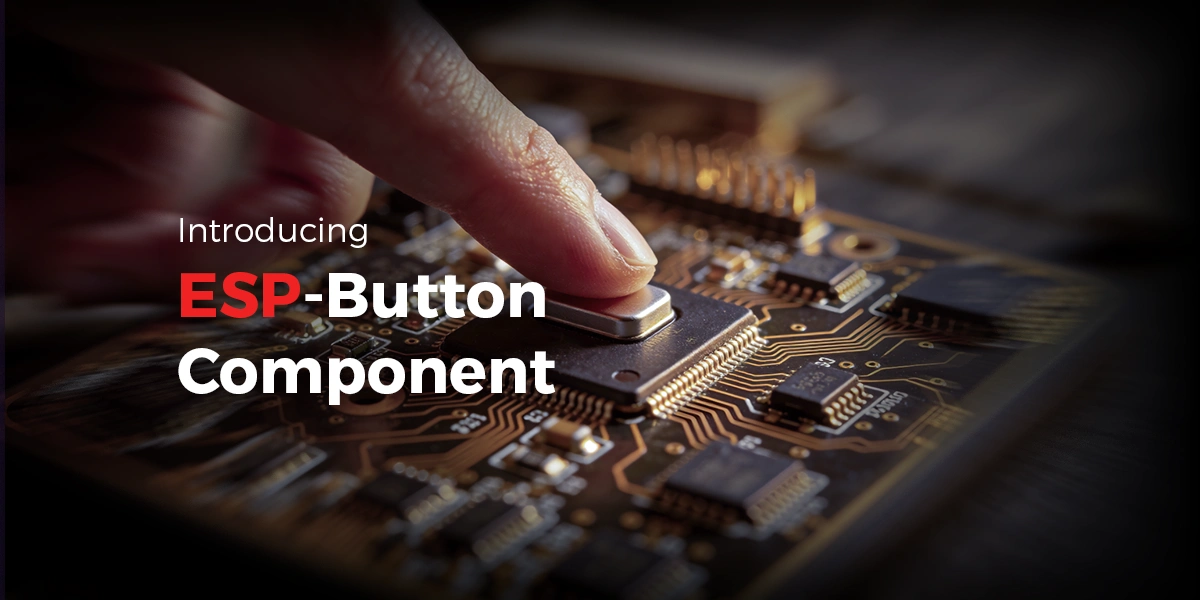
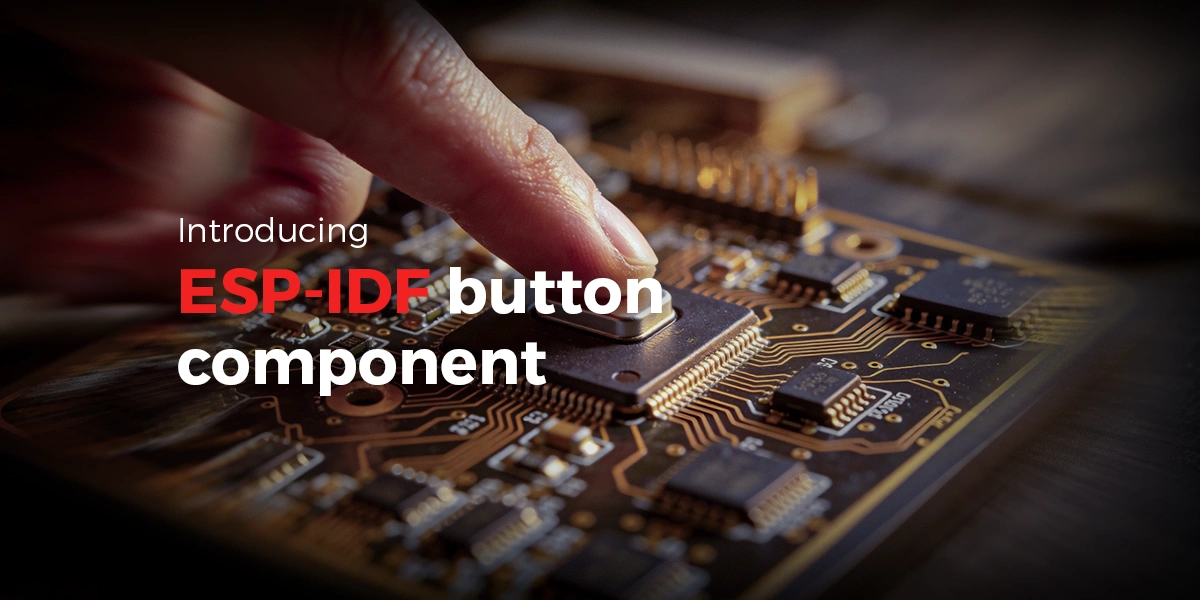
Review comments from Kirill

diff --git a/content/blog/2026/02/component-introduction-esp-button/index.md b/content/blog/2026/02/component-introduction-esp-button/index.md
@@ -1,5 +1,5 @@
 ---
-title: Introducing esp-button component
+title: Introducing ESP-IDF button component
 date: 2026-02-18
 authors:
     - pedro-minatel
@@ -10,16 +10,16 @@ tags:
     - ESP-IDF component
     - community software
     - GPIO
-summary: Learn how to use the ESP-IDF esp-button component to handle GPIO buttons with event detection, debouncing, and callbacks. A step-by-step guide with practical code examples.
+summary: Learn how to use the ESP-IDF button component to handle GPIO buttons with event detection, debouncing, and callbacks. A step-by-step guide with practical code examples.
 ---
 
 ## Introduction
 
-Buttons are fundamental input elements in embedded systems, yet handling them properly requires careful attention to debouncing, event detection, and timing. Today, we're excited to introduce the [**esp-button**](https://components.espressif.com/components/espressif/button) component, a robust and feature-rich button driver for ESP-IDF that simplifies button handling in your projects.
+Buttons are fundamental input elements in embedded systems, yet handling them properly requires careful attention to debouncing, event detection, and timing. Today, we're excited to introduce the [**button**](https://components.espressif.com/components/espressif/button) component, a robust and feature-rich button driver for ESP-IDF that simplifies button handling in your projects.
 
-The esp-button component provides a comprehensive solution for managing physical buttons in your ESP32 projects, supporting both GPIO-based buttons and ADC-based button matrices.
+The button component provides a comprehensive solution for managing physical buttons in your ESP32 projects, supporting both GPIO-based buttons and ADC-based button matrices.
 
-The esp-button component is one of many components available on the ESP component registry.
+The button component is one of many components available on the ESP component registry.
 
 {{< alert icon="circle-info" cardColor="#b3e0f2" iconColor="#04a5e5">}}
 The [ESP Component Registry](https://developer.espressif.com/blog/2024/10/what-is-the-esp-registry/) is a centralized platform that hosts reusable software components for ESP-IDF projects. It simplifies development by providing pre-built, tested libraries that can be easily integrated into an application, helping developers accelerate their projects by leveraging community‑tested solutions.
@@ -27,7 +27,7 @@ The [ESP Component Registry](https://developer.espressif.com/blog/2024/10/what-i
 
 ## Key Features
 
-The esp-button component offers several powerful features:
+The button component offers several powerful features:
 
 - **Multiple Button Types**: Support for GPIO buttons and ADC button matrices
 - **Event Detection**: Comprehensive event handling including press, release, long press, and repeat press
@@ -38,12 +38,12 @@ The esp-button component offers several powerful features:
 - **Rich Event Types**: Supports 11 different button events including:
   - Button pressed, released, and press repeat
   - Single click, double click, and multiple click detection
-  - Long press start, hold, and up events
+  - Long press start, hold, and release events
   - Press repeat done and press end notifications
 
 ## Application Examples
 
-The esp-button component enables developers to create responsive and reliable button-based interfaces across various use cases:
+The button component enables developers to create responsive and reliable button-based interfaces across various use cases:
 
 - **Smart Light Controls**: Implement single click for on/off, double click for brightness adjustment, and long press for color selection
 - **Device Menu Navigation**: Use button events to navigate through device settings and menus with intuitive multi-tap interactions
@@ -54,7 +54,7 @@ The esp-button component enables developers to create responsive and reliable bu
 
 ## Basic Example
 
-Here's a practical example demonstrating how to set up the esp-button component with GPIO button handling. We'll break it down into steps to understand each part.
+Here's a practical example demonstrating how to set up the button component with GPIO button handling. We'll break it down into steps to understand each part.
 
 This example creates a button application that detects multiple button events on GPIO pin 9. The code initializes the button hardware, configures timing parameters for different press types, and registers callback functions that execute when specific button events are detected. When you interact with the button, the appropriate callback function is triggered, logging the event type to the console for monitoring and debugging purposes.
 
@@ -66,11 +66,13 @@ This example uses the [**ESP32-C3-DevKit-RUST-2**](https://docs.espressif.com/pr
 
 ### Component Installation
 
-You can easily add the esp-button component to your ESP-IDF project using the IDF Component Manager:
+You can easily add the button component to your ESP-IDF project using the IDF Component Manager:
 
 ```bash
 idf.py add-dependency "espressif/button=*"
 ```
+
+This command will install the latest available version of the button component.
 
 Or manually add it to your `idf_component.yml` file:
 
@@ -78,6 +80,10 @@ Or manually add it to your `idf_component.yml` file:
 dependencies:
   espressif/button: "^4.1.5"
 ```
+
+{{< alert icon="circle-info" cardColor="#b3e0f2" iconColor="#04a5e5">}}
+**Note**: At the time of this article's publication, the current version is 4.1.5. The `^4.1.5` version specification means the dependency will use version 4.1.5 or any newer compatible release if available.
+{{< /alert >}}
 
 ### Step 1: Include Required Headers
 
@@ -90,7 +96,7 @@ First, include the necessary headers for button handling:
 
 ### Step 2: Define GPIO and Configuration
 
-Set up the GPIO pin and configure logging:
+Set the GPIO pin and configure logging:
 
 ```c
 // Define button GPIO and active level
@@ -127,6 +133,8 @@ static void button_repeat_event_cb(void *arg, void *data)
 }
 ```
 
+These callback functions are invoked automatically by the button component when their respective button events are detected. In this example, each callback simply logs a message to the console for demonstration purposes. In your actual application, you should replace these log statements with your application-specific logic—for example, toggling an LED in the single click callback, adjusting brightness levels in the double click callback, or triggering Wi-Fi provisioning in the long press callback. The `arg` parameter can be used to pass user-defined context data to the callback, while the `data` parameter provides event-specific information from the button component.
+
 ### Step 4: Configure Button Timing
 
 In the `app_main()` function, create the button configuration with timing parameters:
@@ -141,9 +149,11 @@ void app_main(void)
     };
 ```
 
+The timing configuration defines how the component distinguishes between different button press types. The `short_press_time` parameter sets the minimum duration (in milliseconds) that a button must be pressed to register as a valid press, effectively serving as the debounce threshold—in this example, 200ms filters out mechanical bounce and accidental touches. The `long_press_time` parameter determines how long a button must be held before triggering a long press event—here set to 5000ms (5 seconds). These timing values can be adjusted based on your application requirements: shorter values for more responsive interfaces, or longer values for applications requiring deliberate user interaction to prevent accidental triggers.
+
 ### Step 5: Configure GPIO Settings
 
-Set up the GPIO-specific configuration for your button:
+Set the GPIO-specific configuration for your button:
 
 ```c
     const button_gpio_config_t btn_gpio_cfg = {
@@ -152,6 +162,8 @@ Set up the GPIO-specific configuration for your button:
         .disable_pull = false,
     };
 ```
+
+The `active_level` parameter determines the logic level that indicates a button press. With **active low** (`0`), the button pulls the GPIO to ground when pressed, which is the most common configuration using pull-up resistors. In this case, the GPIO reads low (0) when pressed and high (1) when released. With **active high** (`1`), the button connects the GPIO to VCC when pressed, typically used with pull-down resistors, where the GPIO reads high (1) when pressed and low (0) when released. The `disable_pull` setting controls whether the internal pull-up or pull-down resistor is disabled—setting it to `false` enables the internal pull resistor, which is recommended for most applications to ensure a defined logic level when the button is not pressed.
 
 ### Step 6: Create the Button Device
 
@@ -191,12 +203,16 @@ The full source code for this example is available in the [developer-portal-code
 
 ## Conclusion
 
-The **esp-button** component simplifies button handling with comprehensive event detection, debouncing, and flexible callbacks. With 11 different event types, it provides fine-grained control over button interactions for any application—from smart home devices to IoT gateways. Integrate esp-button into your next ESP-IDF project to focus on your application logic instead of low-level button management.
+If you plan to use buttons in your next ESP-IDF project, consider integrating the **espressif/button** component. This will help you focus on your application logic instead of low-level button management.
+
+The component's comprehensive event detection system, including support for single clicks, double clicks, long presses, and repeat presses, provides the flexibility needed for modern embedded applications. With built-in debouncing, thread-safe operation, and support for both GPIO and ADC button matrices, you can implement sophisticated button interfaces without reinventing the wheel.
+
+Whether you're building a smart home device, an IoT gateway, or an industrial control panel, the espressif/button component handles the complexity of reliable button input detection so you can concentrate on creating great user experiences. Available through the ESP Component Registry, it's easy to integrate and comes with the reliability and support of an official Espressif component.
 
 ## Resources
 
-- [esp-button Component on ESP Component Registry](https://components.espressif.com/components/espressif/button)
+- [button Component on ESP Component Registry](https://components.espressif.com/components/espressif/button)
 - [ESP Component Registry Documentation](https://docs.espressif.com/projects/idf-component-manager/en/latest/)
 - [ESP32-C3-DevKit-RUST-2 Documentation](https://docs.espressif.com/projects/esp-dev-kits/en/latest/esp32c3/esp32-c3-devkit-rust-2/index.html)
 - [What is the ESP Component Registry?](https://developer.espressif.com/blog/2024/10/what-is-the-esp-registry/)
-- [GitHub - esp-button Repository](https://github.com/espressif/esp-iot-solution)
+- [GitHub - button Repository](https://github.com/espressif/esp-iot-solution)
